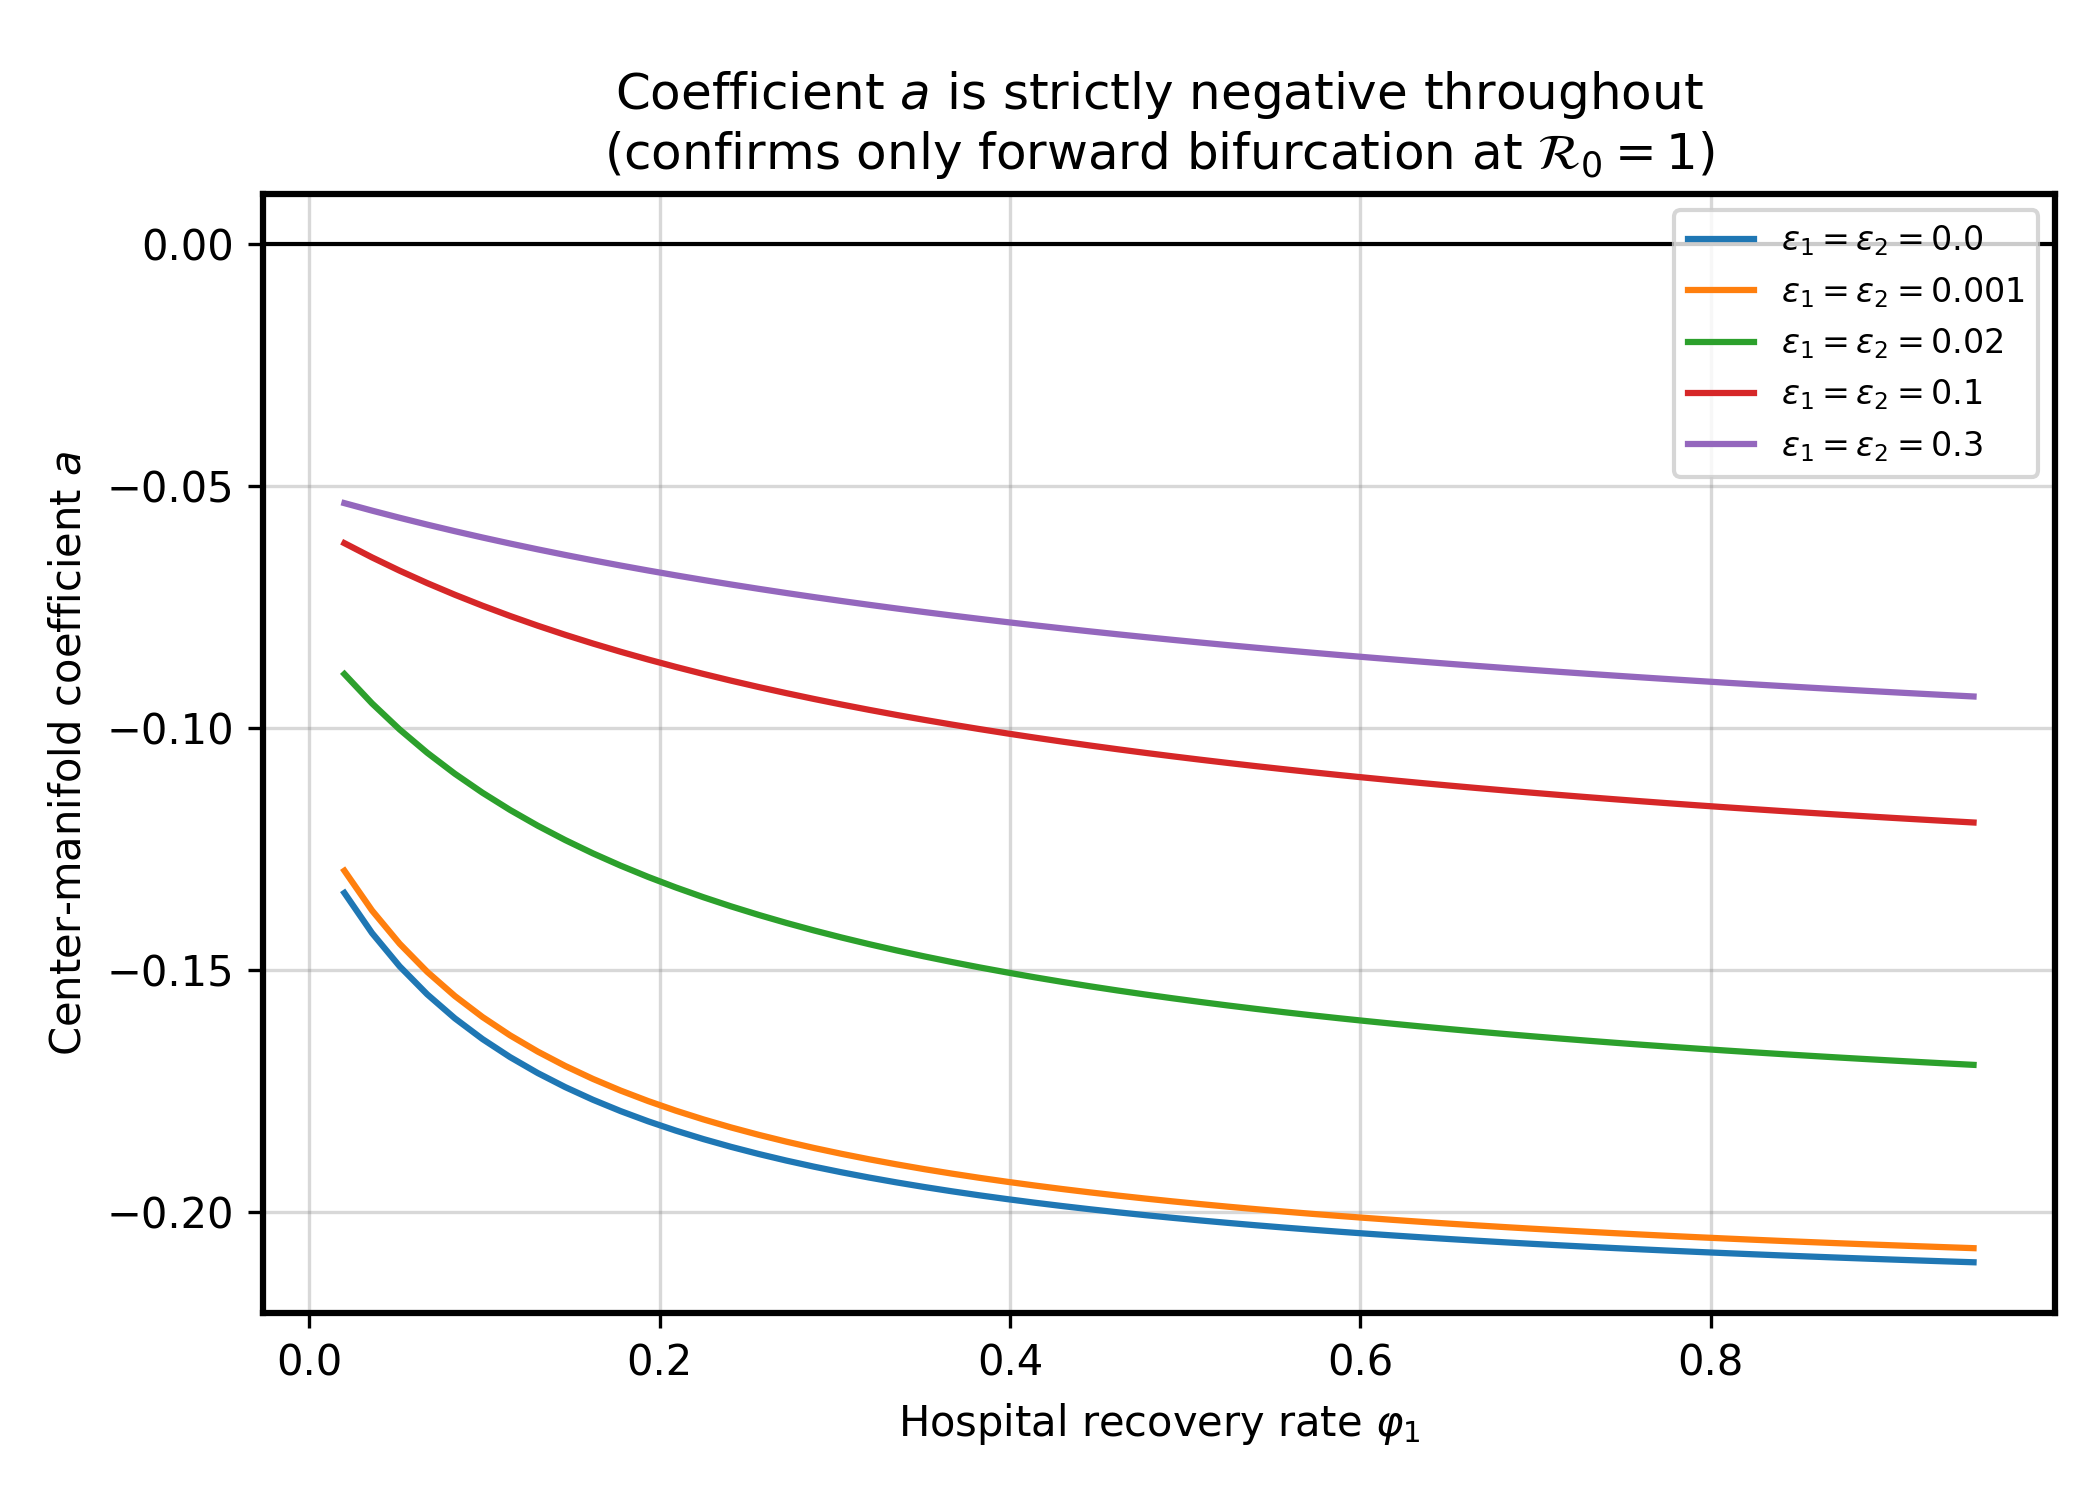
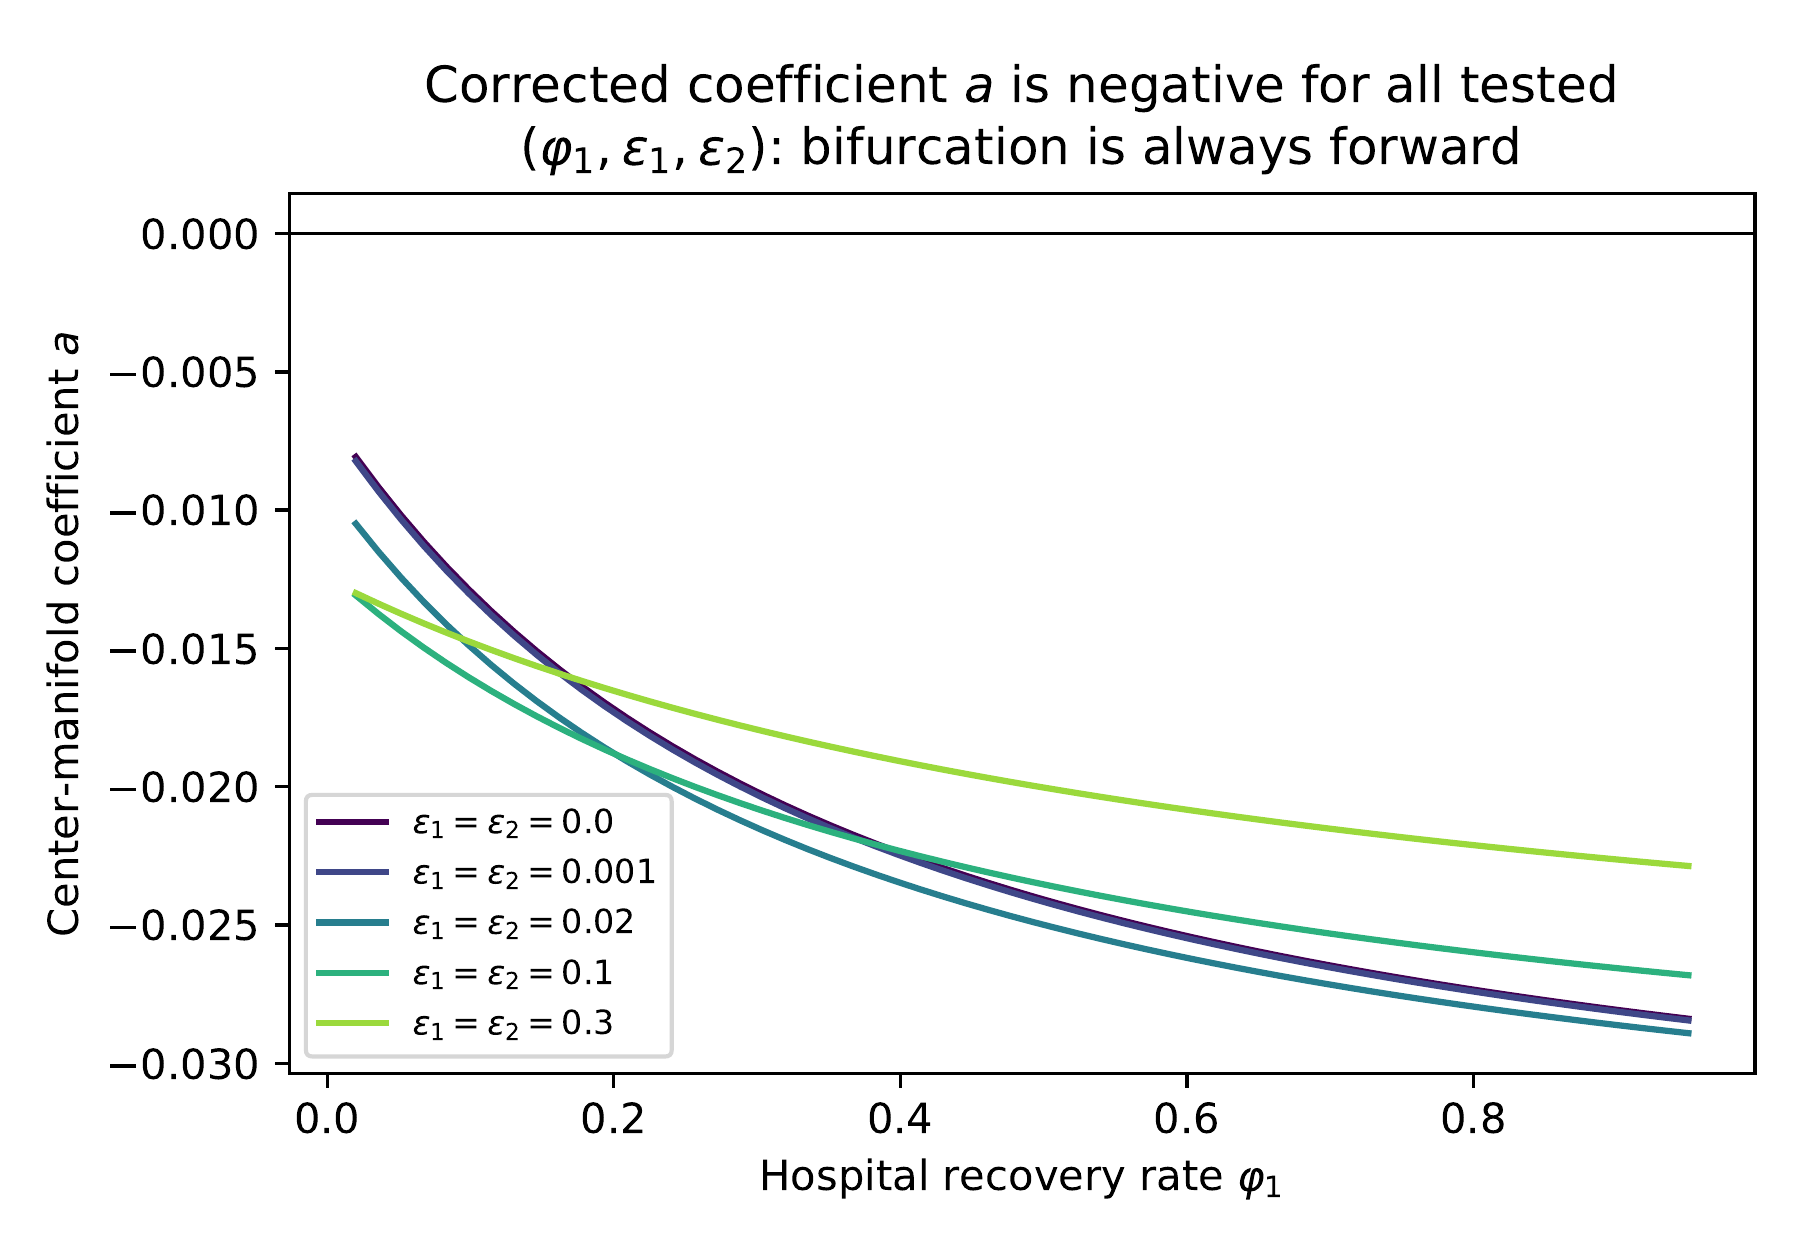
Fix figures that shared a name with the manuscript but had different content
fig_no_bistability.png and fig_bifurcation_coefficient_a.png did not
exist as PNGs anywhere in the manuscript source (only as PDF), so they
were missed by the earlier byte-for-byte figure sync. bifurcation_verification.py
had generated its own independent plots under those same filenames,
and those plots are not the same as the manuscript's actual figures
(different variables/axes for the no-bistability plot; a different
point within the eta_M/xi_H baseline range for the coefficient-a plot,
giving a different curve though the same negative-everywhere result).

- figures/fig_no_bistability.png and figures/fig_bifurcation_coefficient_a.png
  are now exact renders of the manuscript's own fig_no_bistability.pdf and
  fig_corrected_coeff_a.pdf.
- The script's own output is renamed to verification_coefficient_a_scenario4.png
  and verification_no_bistability_scenario5.png (and matching data/ CSVs) so it
  is clearly labeled as an independent check, not a reproduction.

diff --git a/bifurcation_verification.py b/bifurcation_verification.py
@@ -16,11 +16,19 @@ not yet reached their unique common equilibrium can look like they are
 converging to two different endpoints when they are not. Scenario 5 below
 therefore integrates for 60,000 days.
 
+This script is an independent numerical check: it reaches the same
+conclusion as the manuscript (a < 0 everywhere; all trajectories converge
+to the disease-free equilibrium) using the model's own closed-form
+equations, but it is not the exact plotting code behind the manuscript's
+Figures 4 and 5. Its output is saved under the verification_* filenames
+below, separate from figures/fig_bifurcation_coefficient_a.png and
+figures/fig_no_bistability.png, which are the manuscript's actual figures.
+
 Outputs:
-  - figures/fig_bifurcation_coefficient_a.png   (Scenario 4: center-manifold coefficient a)
-  - figures/fig_no_bistability.png      (Scenario 5: long-horizon convergence check)
-  - data/bifurcation_coefficient_a.csv
-  - data/no_bistability_trajectories.csv
+  - figures/verification_coefficient_a_scenario4.png   (Scenario 4: center-manifold coefficient a)
+  - figures/verification_no_bistability_scenario5.png      (Scenario 5: long-horizon convergence check)
+  - data/verification_coefficient_a.csv
+  - data/verification_no_bistability_trajectories.csv
 """
 
 import numpy as np
@@ -152,10 +160,10 @@ def scenario4_bifurcation_coefficient(outdir_fig='figures', outdir_data='data'):
     ax.legend(fontsize=8)
     ax.grid(True)
     fig.tight_layout()
-    fig.savefig(f"{outdir_fig}/fig_bifurcation_coefficient_a.png", dpi=300)
+    fig.savefig(f"{outdir_fig}/verification_coefficient_a_scenario4.png", dpi=300)
     plt.close(fig)
 
-    with open(f"{outdir_data}/bifurcation_coefficient_a.csv", "w") as f:
+    with open(f"{outdir_data}/verification_coefficient_a.csv", "w") as f:
         f.write("phi_1,epsilon_1_eq_epsilon_2,a\n")
         for phi1, eps, a in rows:
             f.write(f"{phi1},{eps},{a}\n")
@@ -209,13 +217,13 @@ def scenario5_no_bistability(outdir_fig='figures', outdir_data='data'):
         ax.legend(fontsize=8)
         ax.grid(True)
     fig.tight_layout()
-    fig.savefig(f"{outdir_fig}/fig_no_bistability.png", dpi=300)
+    fig.savefig(f"{outdir_fig}/verification_no_bistability_scenario5.png", dpi=300)
     plt.close(fig)
 
     header = ["Time"]
     for name in initial_conditions:
         header += [f"{name}_{v}" for v in ["S", "E", "I", "H", "M", "R", "D"]]
-    with open(f"{outdir_data}/no_bistability_trajectories.csv", "w") as f:
+    with open(f"{outdir_data}/verification_no_bistability_trajectories.csv", "w") as f:
         f.write(",".join(header) + "\n")
         for i, ti in enumerate(t):
             row = [str(ti)]
@@ -245,4 +253,4 @@ if __name__ == "__main__":
     scenario5_no_bistability()
 
     print()
-    print("Done. See figures/fig_bifurcation_coefficient_a.png and figures/fig_no_bistability.png")
+    print("Done. See figures/verification_coefficient_a_scenario4.png and figures/verification_no_bistability_scenario5.png")

diff --git a/README.md b/README.md
@@ -158,17 +158,23 @@ This is reported as evidence against gross incompatibility of the fitted disease
 ├── export_gamma_panels.py             # Uganda calibration panels & gamma sensitivity
 │
 ├── data/
-│   ├── baseline_simulation_data.csv       # Time series - all 7 compartments, baseline run
-│   ├── endemic_comparison_data.csv        # Baseline vs. endemic equilibrium comparison
-│   ├── summary_table.csv                  # R0 and mortality summary across scenarios
-│   ├── bifurcation_coefficient_a.csv      # Coefficient a across the (phi_1, epsilon) sweep
-│   └── no_bistability_trajectories.csv    # 5 initial conditions x 60,000-day integration
+│   ├── baseline_simulation_data.csv               # Time series - all 7 compartments, baseline run
+│   ├── endemic_comparison_data.csv                # Baseline vs. endemic equilibrium comparison
+│   ├── summary_table.csv                          # R0 and mortality summary across scenarios
+│   ├── verification_coefficient_a.csv             # bifurcation_verification.py output (see below)
+│   └── verification_no_bistability_trajectories.csv
 │
 └── figures/
-    ├── fig_bifurcation_coefficient_a.png      # Scenario 4: coefficient a is negative throughout
-    ├── fig_no_bistability.png         # Scenario 5: convergence to a common DFE
+    ├── fig_bifurcation_coefficient_a.png          # The manuscript's actual Figure (Scenario 4)
+    ├── fig_no_bistability.png                     # The manuscript's actual Figure (Scenario 5)
+    ├── verification_coefficient_a_scenario4.png   # bifurcation_verification.py's own plot of the
+    │                                               #   same quantity (independent check, not a
+    │                                               #   reproduction of the manuscript figure above)
+    ├── verification_no_bistability_scenario5.png  # bifurcation_verification.py's own plot (same caveat)
     └── ... (per-scenario figures, see filenames)
 ```
+
+`fig_bifurcation_coefficient_a.png` and `fig_no_bistability.png` are the manuscript's real figures. `bifurcation_verification.py` is provided so anyone can independently re-derive the same conclusion from the model's equations; its own plots are saved separately under the `verification_*` names above rather than overwriting the manuscript figures, since the two are not pixel-identical (different baseline point within the parameter ranges, different plotting style) even though they agree on the result (coefficient a negative everywhere; all trajectories converge to the disease-free equilibrium).
 
 ---
 
